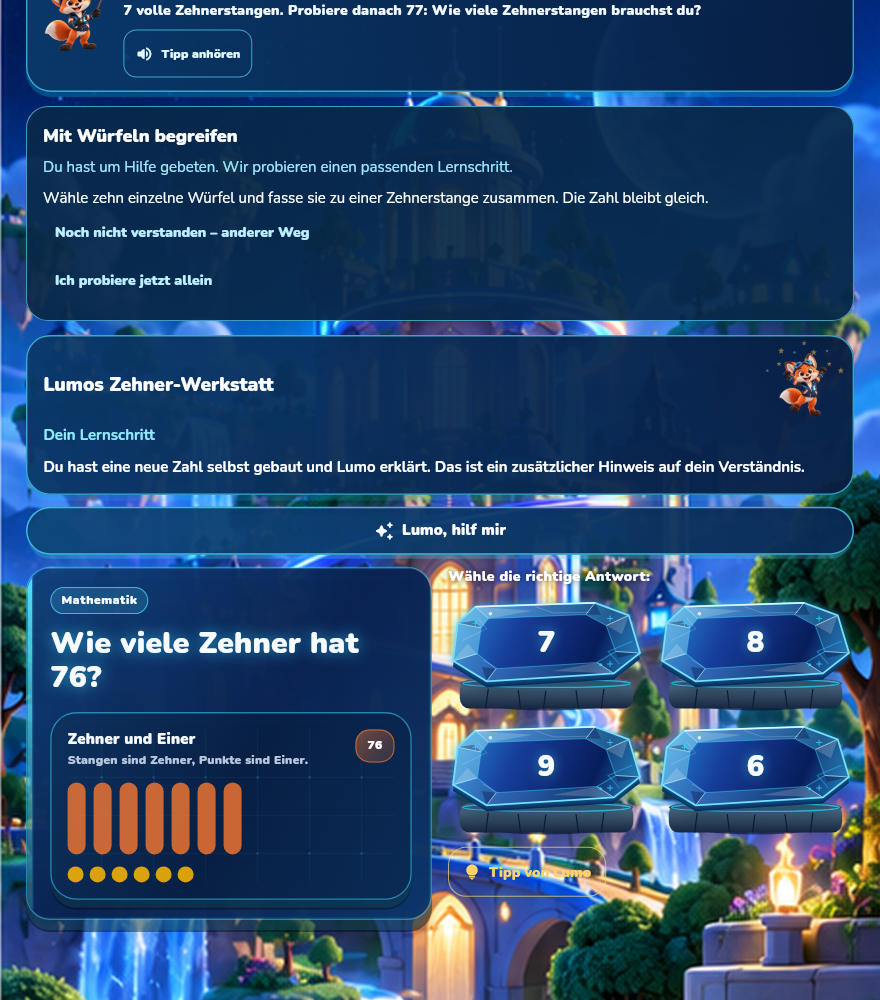
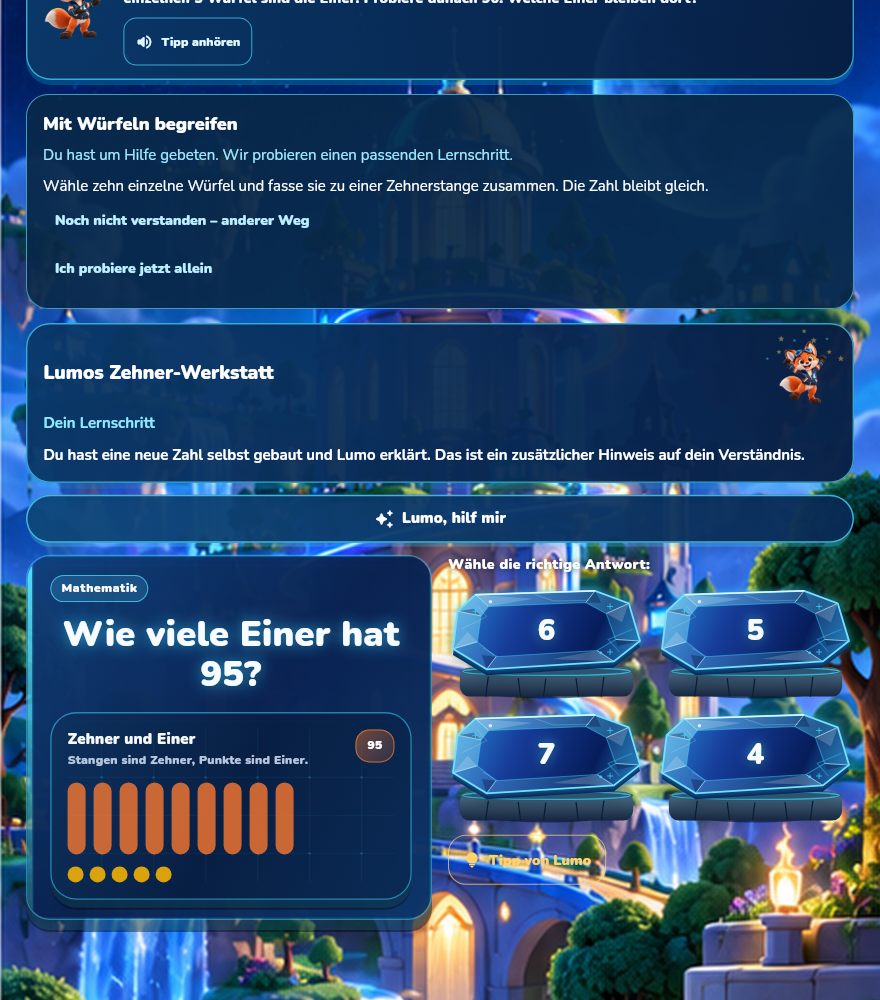
checkpoint(lumo): preserve cloud work at 2026-10-29 08:30 UTC [skip ci]

Changed region(s): [[0.0307, 0.0, 0.9818, 0.899], [0.2761, 0.775, 0.3375, 0.868], [0.1841, 0.868, 0.2148, 0.899]]

diff --git a/lib/features/learning/widgets/lumo_place_value_workshop.dart b/lib/features/learning/widgets/lumo_place_value_workshop.dart
@@ -122,22 +122,7 @@ class _LumoPlaceValueWorkshopState extends State<LumoPlaceValueWorkshop> {
                 height: 1.35),
             child:
                 Column(crossAxisAlignment: CrossAxisAlignment.start, children: [
-              Row(children: [
-                const Expanded(
-                    child: Text('Lumos Zehner-Werkstatt',
-                        style: TextStyle(
-                            fontSize: 19, fontWeight: FontWeight.w900))),
-                ExcludeSemantics(
-                    child: LumoCharacter(
-                        pose: _stage == _Stage.done && _independent
-                            ? LumoDesignFoxPose.cheer
-                            : LumoDesignFoxPose.bookPoint,
-                        size: 65,
-                        reduceMotion: calm,
-                        idleHops: false,
-                        intro: false,
-                        controller: _fox)),
-              ]),
+              _header(context, calm),
               const SizedBox(height: 8),
               Text(
                   switch (_stage) {
@@ -318,6 +303,29 @@ class _LumoPlaceValueWorkshopState extends State<LumoPlaceValueWorkshop> {
                     ? 'Du hast eine neue Zahl selbst gebaut und Lumo erklärt. Das ist ein zusätzlicher Hinweis auf dein Verständnis.'
                     : 'Mit Übung geschafft! Beim nächsten Mal probieren wir wieder eine neue Zahl selbstständig.'),
             ])));
+  }
+
+  Widget _header(BuildContext context, bool calm) {
+    const title = Text('Lumos Zehner-Werkstatt',
+        style: TextStyle(fontSize: 19, fontWeight: FontWeight.w900));
+    final fox = ExcludeSemantics(
+        child: LumoCharacter(
+            pose: _stage == _Stage.done && _independent
+                ? LumoDesignFoxPose.cheer
+                : LumoDesignFoxPose.bookPoint,
+            size: 65,
+            reduceMotion: calm,
+            idleHops: false,
+            intro: false,
+            controller: _fox));
+    return LayoutBuilder(
+        builder: (context, bounds) => bounds.maxWidth < 260 &&
+                MediaQuery.textScalerOf(context).scale(1) > 1.3
+            ? Column(crossAxisAlignment: CrossAxisAlignment.start, children: [
+                title,
+                Align(alignment: Alignment.centerRight, child: fox)
+              ])
+            : Row(children: [const Expanded(child: title), fox]));
   }
 
   Widget _button(String key, String label, VoidCallback? action) =>

diff --git a/lib/features/learning/widgets/lumo_learning_scene_card.dart b/lib/features/learning/widgets/lumo_learning_scene_card.dart
@@ -194,6 +194,8 @@ class _LumoLearningSceneCardState extends State<LumoLearningSceneCard> {
                           style: const TextStyle(
                               fontWeight: FontWeight.w900, fontSize: 18)),
                       const SizedBox(height: 8),
+                      Text('Wir betrachten die Zahl ${widget.number}.',
+                          style: const TextStyle(fontWeight: FontWeight.w800)),
                       Text(_reason,
                           style: const TextStyle(color: Color(0xFF9EEAFF))),
                       if (!_allTried) ...[
